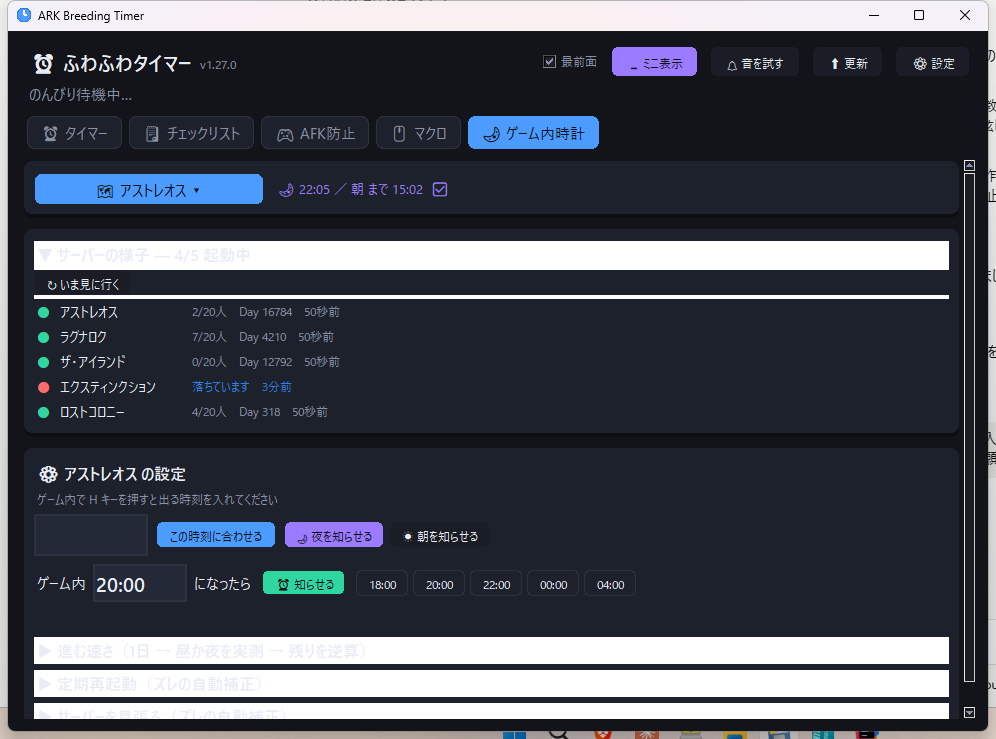
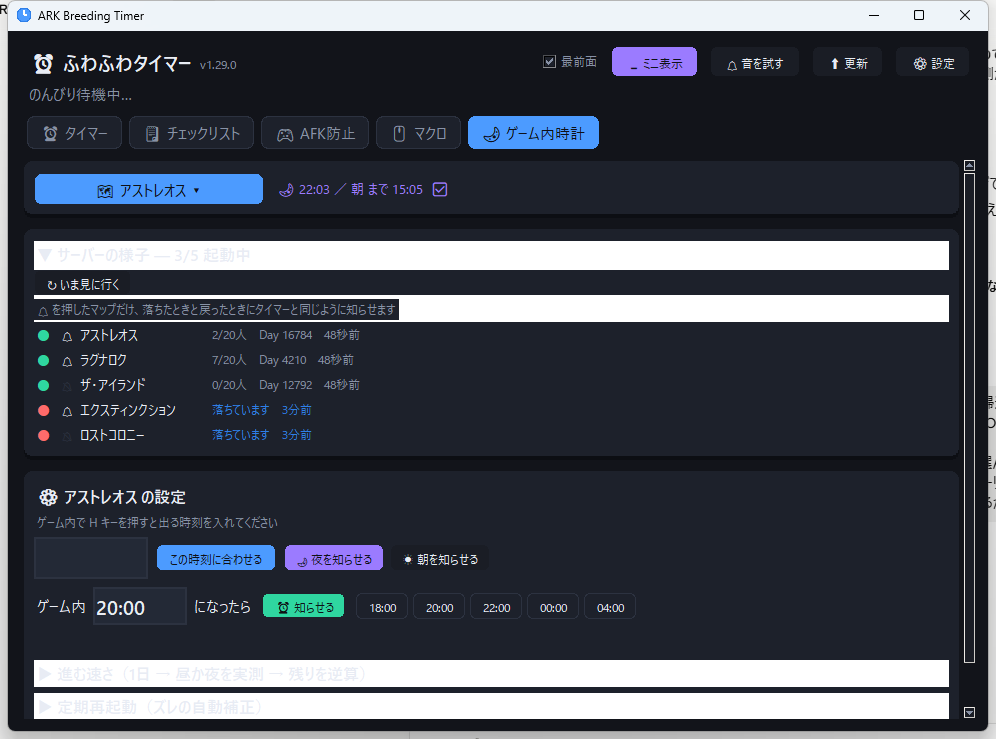
サーバーのダウン・復帰を知らせるようにした (v1.30.0)
GameClock に notify を足して、サーバーの様子の行の 🔔 で切り替える。
落ちた／戻ったで Notifier.fire を呼ぶ（タイマーと同じ音・ポップアップ・
Windows通知）。

見張りスレッドから Tk を触ると落ちるので、いったん watch_notices に
積んで、本体の _tick で吐き出す。

diff --git a/gametime_page.py b/gametime_page.py
@@ -155,6 +155,10 @@ class GameTimePage(tk.Frame):
         self.lbl_poke = tk.Label(srow, text="", bg=th.CARD, fg=th.INK_SUB,
                                  font=F["small"])
         self.lbl_poke.pack(side="left")
+        tk.Label(self.fold_stat.body, text="🔔 を押したマップだけ、落ちたときと"
+                                           "戻ったときにタイマーと同じように知らせます",
+                 bg=th.CARD, fg=th.INK_SUB, font=F["small"], wraplength=740,
+                 justify="left").pack(anchor="w", pady=(0, 2))
         self.stat_box = tk.Frame(self.fold_stat.body, bg=th.CARD)
         self.stat_box.pack(fill="x")
         self.stat_rows = {}
@@ -522,13 +526,31 @@ class GameTimePage(tk.Frame):
         row.pack(fill="x", pady=1)
         lamp = tk.Label(row, text="●", bg=th.CARD, fg=th.INK_SUB, font=F["ui"])
         lamp.pack(side="left", padx=(0, 4))
+        bell = tk.Label(row, text="", bg=th.CARD, font=F["small"], cursor="hand2",
+                        width=2)
+        bell.pack(side="left")
+        bell.bind("<Button-1>", lambda e, n=name: self.toggle_notify(n))
         nm = tk.Label(row, text=G.map_label(name), bg=th.CARD, fg=th.INK,
                       font=F["ui"], anchor="w", width=18)
         nm.pack(side="left")
         info = tk.Label(row, text="", bg=th.CARD, fg=th.INK_SUB, font=F["small"],
                         anchor="w")
         info.pack(side="left", fill="x", expand=True)
-        return {"row": row, "lamp": lamp, "info": info}
+        return {"row": row, "lamp": lamp, "bell": bell, "info": info}
+
+    def toggle_notify(self, name):
+        """そのマップの「落ちた／戻った」の知らせを入切する。"""
+        c = self.app.clocks.clocks.get(name)
+        if c is None:
+            return
+        c.notify = not c.notify
+        self.app.save_clocks()
+        self.refresh_status()
+        self.lbl_poke.config(
+            text="  %s %s の知らせを%s" % ("🔔" if c.notify else "🔕",
+                                           G.map_label(name),
+                                           "出します" if c.notify else "止めました"),
+            fg=th.MINT if c.notify else th.INK_SUB)
 
     def refresh_status(self, now=None):
         """見張っているマップぶんの行を出し直す。"""
@@ -540,6 +562,10 @@ class GameTimePage(tk.Frame):
             self.stat_rows = {n: self._stat_row(n) for n in targets}
         live = 0
         for name, r in self.stat_rows.items():
+            c = self.app.clocks.clocks.get(name)
+            on = bool(c is not None and c.notify)
+            r["bell"].config(text="🔔" if on else "🔕",
+                             fg=th.INK if on else th.LINE)
             st = self.app.watcher.state.get(name)
             if st is None:
                 r["lamp"].config(fg=th.INK_SUB)

diff --git a/ark_breeding_timer.py b/ark_breeding_timer.py
@@ -39,7 +39,7 @@ from gametime_page import GameTimePage
 from macro_page import MacroPage
 
 APP_NAME = "ARK Breeding Timer"
-APP_VERSION = "1.29.0"
+APP_VERSION = "1.30.0"
 
 
 def _res_dir():
@@ -1287,6 +1287,8 @@ class App(tk.Tk):
             self._watch_targets, self._watch_event,
             self.cfg.get("watch_interval", 60))
         self.watch_msg = {}
+        # 見張りスレッドからの知らせ置き場。Tk は本体の周期処理から触る
+        self.watch_notices = []
         self.watcher.start()
         # チェックリストは本体とミニ表示で同じものを見せるので App が持つ
         self.checklist_items = load_checklist()
@@ -1616,6 +1618,10 @@ class App(tk.Tk):
 
     def _tick(self):
         now = time.time()
+        # 見張りスレッドが積んだ知らせを、ここ（本体側）で鳴らす
+        while self.watch_notices:
+            title, body, urgent = self.watch_notices.pop(0)
+            self.notifier.fire(title, body, urgent=urgent)
         changed = False
         for t in list(self.timers):
             if t.paused:
@@ -1852,11 +1858,20 @@ class App(tk.Tk):
             # 落ちている間はゲーム内時間も進まないので、その場で止める
             c.pause(value)
             self.watch_msg[name] = "落ちたので時計を止めました"
+            if c.notify:
+                self.watch_notices.append(
+                    ("⚠ %s が落ちました" % gametime.map_label(name),
+                     "時計を止めました", True))
         elif kind == "up":
             gap = c.resume(value)
             self.watch_msg[name] = ("戻ったので時計を動かします（%d分ぶん止めました）"
                                     % round(gap / 60)) if gap >= 60 else \
                                    "戻ったので時計を動かします"
+            if c.notify:
+                self.watch_notices.append(
+                    ("✅ %s が戻りました" % gametime.map_label(name),
+                     ("%d分ほど落ちていました" % round(gap / 60)) if gap >= 60
+                     else "また動いています", False))
         elif kind == "hold":
             c.hold(value)          # 定期再起動ぶんの差し引き
         elif kind == "day":

diff --git a/gametime.py b/gametime.py
@@ -116,10 +116,12 @@ class GameClock:
     def __init__(self, sync_real=0.0, sync_game=0, day_real=DEFAULT_DAY_REAL,
                  night_real=DEFAULT_NIGHT_REAL, address="", restarts=None,
                  restart_minutes=3.0, restart_done=0.0, day_boundary=None,
-                 total_measured=False, measuring=False, measure_since=0.0):
+                 total_measured=False, measuring=False, measure_since=0.0,
+                 notify=False):
         # サーバーが落ちている間、時計を止めておく時刻（0なら動いている）。
         # 保存はしない。アプリを開き直したら見張りが数秒で入れ直すし、
         # 閉じていた間ぶんを丸ごと引くと、かえって大きくずれてしまう。
+        self.notify = bool(notify)   # 落ちた／戻ったを知らせるか
         self.paused_at = 0.0
         # 止めた合計（実秒）。日の変わり目どうしの間隔から落ちていた分を
         # 引くのに使う。sync_real は hold() で後ろへずれるので、
@@ -666,6 +668,7 @@ class GameClock:
                 "total_measured": self.total_measured,
                 "measuring": self.measuring,
                 "measure_since": self.measure_since,
+                "notify": self.notify,
                 "model": 2}
 
     @classmethod
@@ -685,7 +688,8 @@ class GameClock:
                    d.get("address", ""), d.get("restarts"),
                    d.get("restart_minutes", 3.0), d.get("restart_done", 0.0),
                    d.get("day_boundary"), d.get("total_measured", False),
-                   d.get("measuring", False), d.get("measure_since", 0.0))
+                   d.get("measuring", False), d.get("measure_since", 0.0),
+                   d.get("notify", False))
 
 
 class ClockSet:
